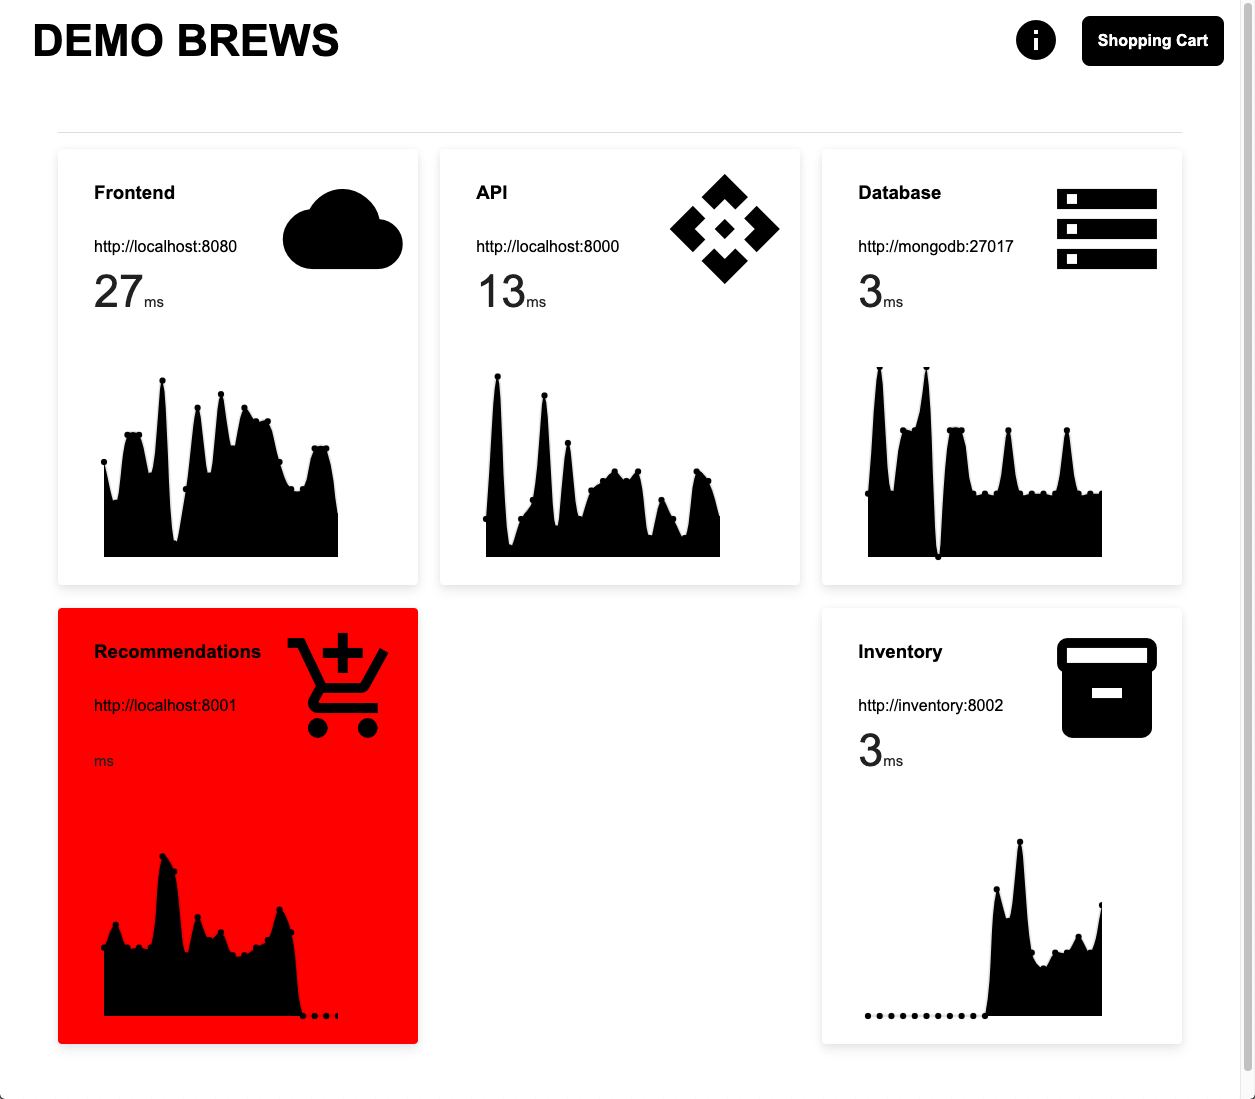
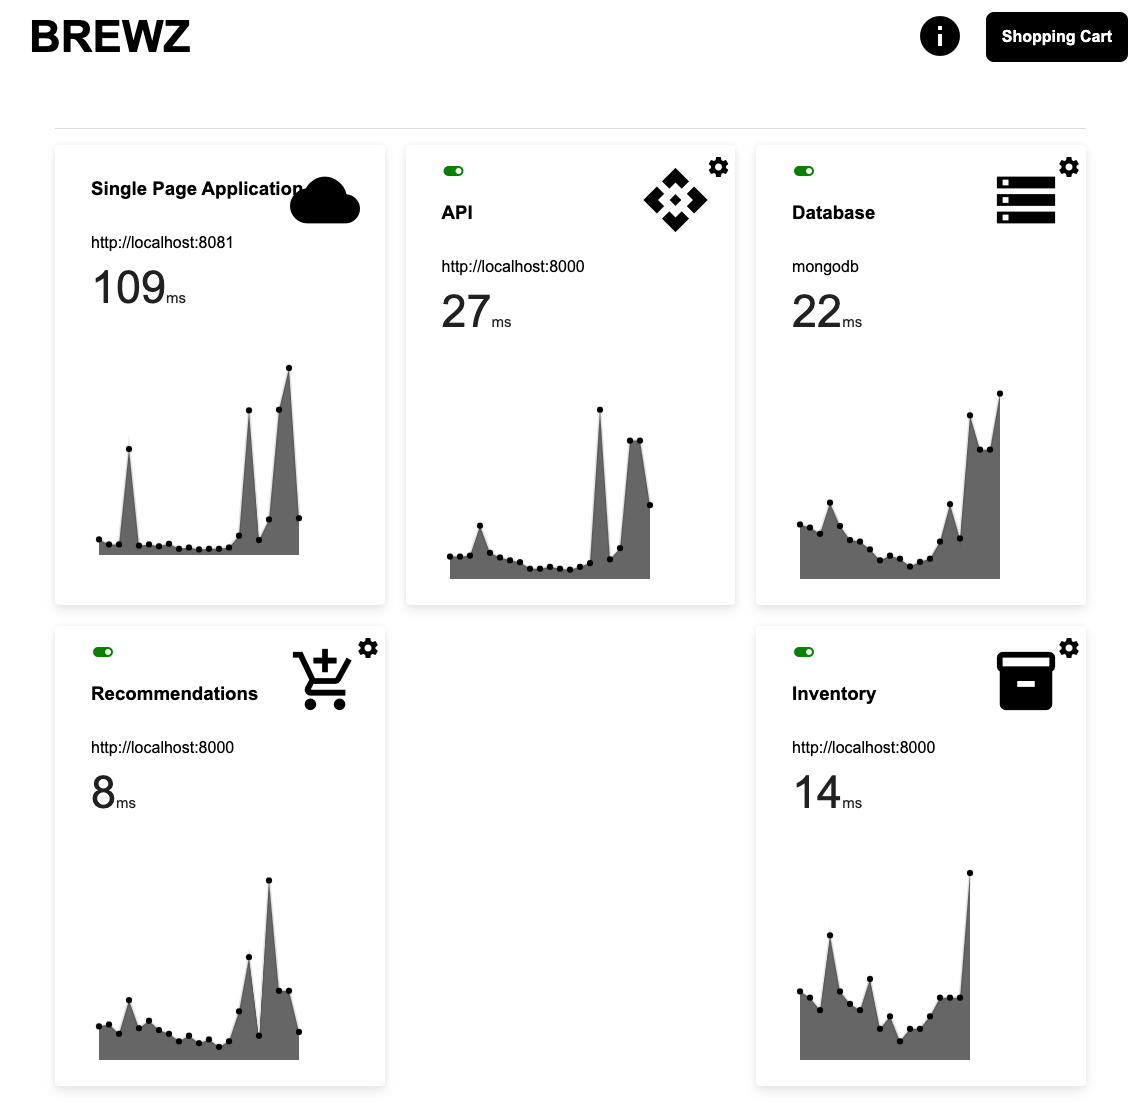
change to brewz

diff --git a/spa/src/components/NavBarComponent.vue b/spa/src/components/NavBarComponent.vue
@@ -1,7 +1,7 @@
 <template>
   <div id="nav-bar">
     <router-link to="/products" id="products-link">
-      <h1>DEMO BREWS</h1>
+      <h1>BREWZ</h1>
     </router-link>
     <router-link to="/cart" id="cart-link">
       <button>Shopping Cart</button>

diff --git a/spa/src/main.js b/spa/src/main.js
@@ -4,7 +4,7 @@ import router from './router'
 
 
 router.beforeEach((to, from, next) => {
-  document.title = 'Demo Brews';
+  document.title = 'Brewz';
   next();
 });
 

diff --git a/README.md b/README.md
@@ -6,7 +6,7 @@ This application demos a modern single-page application built on:
 
 This application was created to help train people on the [F5 Distributed Cloud Services](https://www.f5.com/cloud) capabilities. 
 
-![Demo Brews Site](./assets/demo_brews.png)
+![Brewz Site](./assets/demo_brewz.png)
 
 # Components
 ### Frontend
@@ -41,9 +41,9 @@ The stats page provides information for the various components that make up this
 - Latency
 - Historic latency graph
 
-If a component is offline, the component card will go red as pictured below.
-
 ![Stats Page](./assets/stats.png)
+
+NOTE: If a component is offline, a component card such as in the image above will turn red.
 
 ### Product Detail
 The Product detail page contains the recommendations and inventory microservices. 
